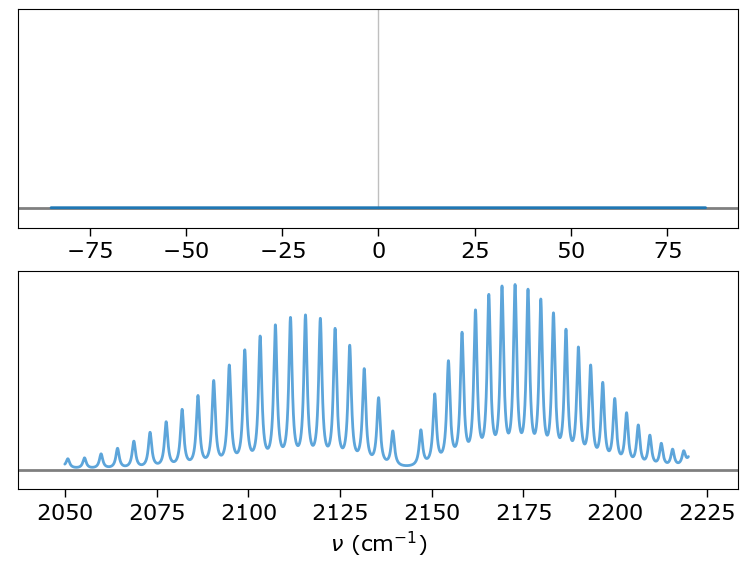
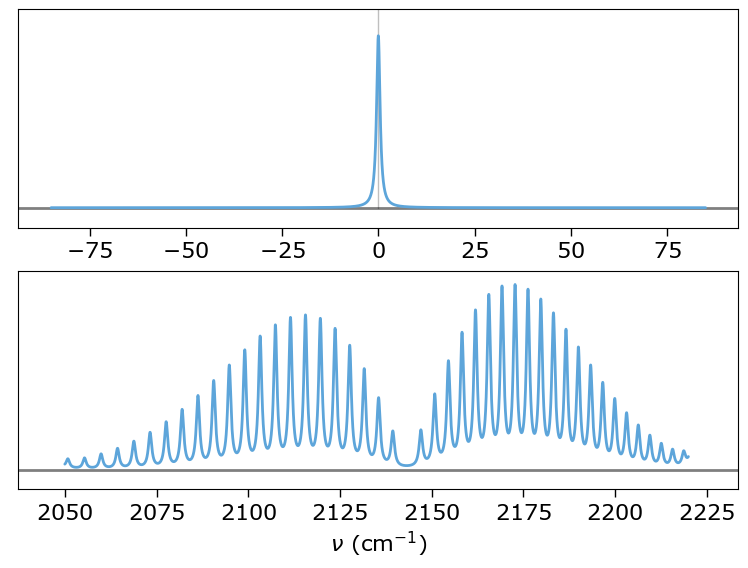
added weight_pos

Changed region(s): [[0.0615, 0.0599, 0.9532, 0.3891]]

diff --git a/ISMS/position_initerpolation.py b/ISMS/position_initerpolation.py
@@ -1,0 +1,122 @@
+import numpy as np
+import matplotlib.pyplot as plt
+from matplotlib import patches
+from numpy import log
+from matplotlib.widgets import Slider
+from PIL import Image
+
+size = 14
+vmin = 0.5
+k   = np.arange(5)
+kt = 2.2
+ki = int(kt)
+t = kt-ki
+a = t
+
+Si = np.zeros(len(k))
+Si[ki]   = (1-a)
+Si[ki+1] =    a
+ht  = 0.05
+hdv = 0.19
+
+
+
+p0  = plt.bar(k,Si,width=1.0,fc='cornsilk',ec='k')
+p1, = plt.plot([ki+t,ki+t],[0,1],'r-')
+p2, = plt.plot([ki+t,ki+t],[1.0,0.0],'ro')
+p3, = plt.plot([-1,ki+0.5],[  a,  a],'k--')
+p4, = plt.plot([-1,ki-0.5],[1-a,1-a],'k--')
+p5, = plt.plot([-1,ki+t],[1,1],'k--')
+p6, = plt.plot([vmin,vmin,vmin,ki,ki+1],[1.0,1-a,a,0,0],'ko')
+
+p7, = plt.plot([ki+1,ki+1],[  0,  hdv],'k--')
+p8, = plt.plot([ki,ki],[  0,  max(ht,hdv)],'k--')
+
+t1 = plt.text(ki+0.5,hdv+0.02,'$\\Delta \\nu$',fontsize = size,ha='center',backgroundcolor='cornsilk')
+a1 = plt.annotate(text='', xy=(ki,hdv), xytext=(ki+1,hdv), arrowprops=dict(arrowstyle='<->'))
+
+t2 = plt.text(ki+0.5*t,ht+0.02,'$t\\Delta \\nu$',fontsize = size,ha='center',backgroundcolor='cornsilk')
+a2 = plt.annotate(text='', xy=(ki,ht), xytext=(ki+t,ht), arrowprops=dict(arrowstyle='<->'))
+
+
+plt.yticks( [0,(1-a),a,1.0],['$0$','$(1-t)$','$t$','$1$'],fontsize = size)
+
+plt.xticks( [0,1,ki,ki+t,ki+1,4],
+            ['','','$\\nu[k]$','\n$\\nu_0$','$\\nu[k+1]$',''],
+            fontsize = size,
+            ha='left')
+ax=  plt.gca()
+plt.xlim(vmin,4.5)
+##plt.subplots_adjust(left=0.15,right=0.9,top=0.9,bottom=0.3)
+##
+##axslider = plt.axes([0.15, 0.1, 0.70, 0.03], facecolor='cornsilk')
+##t_slider = Slider(
+##    ax=axslider,
+##    label='$\\nu_0$',
+##    valmin=1.01,
+##    valmax=3.99,
+##    valinit=0.5,
+##)
+plt.sca(ax)
+
+def update(val):
+    global a1,a2
+##    kt = t_slider.val
+    kt = val
+    ki = int(kt)
+    t = kt-ki
+    a = t
+
+    for kk in k:
+        p0[kk].set_height(0)
+        
+    p0[ki].set_height(1-a)
+    p0[ki+1].set_height(a)
+    p1.set_xdata([ki+t,ki+t])
+    p2.set_xdata([ki+t,ki+t])
+    p3.set_xdata([-1,ki+0.5])
+    p3.set_ydata([a,a])
+    p4.set_xdata([-1,ki-0.5])
+    p4.set_ydata([1-a,1-a])
+    p5.set_xdata([0,ki+t])
+    p6.set_xdata([vmin,vmin,vmin,ki,ki+1])
+    p6.set_ydata([1.0,1-a,a,0,0])
+    p7.set_xdata([ki+1,ki+1])
+    p8.set_xdata([ki,ki])
+    t1.set_x(ki+0.5)
+    t2.set_x(ki+0.5*t)
+
+    a1.remove()
+    a1 = plt.annotate(text='', xy=(ki,hdv), xytext=(ki+1,hdv), arrowprops=dict(arrowstyle='<->'))
+    a2.remove()
+    a2 = plt.annotate(text='', xy=(ki,ht), xytext=(ki+t,ht), arrowprops=dict(arrowstyle='<->'))
+
+    i_list = [i for i in range(5)]
+    x_list =  i_list[:ki+1]+[ki+t]+i_list[ki+1:]
+    s_list = ki*['']+['$\\nu[k]$','\n$\\nu_0$','$\\nu[k+1]$']+(3-ki)*['']
+
+    plt.xticks(x_list,s_list,
+            fontsize = size,
+            ha='left')
+    plt.yticks( [0,(1-a),a,1.0],['$0$','$(1-t)$','$t$','$1$'],fontsize = size)
+
+    plt.xlim(vmin,4.5)
+    plt.gcf().canvas.draw_idle()
+    
+##t_slider.on_changed(update)
+
+gif_images = []
+for kt in np.linspace(1.01,3.99,200):
+    print(kt)
+    update(kt)
+    fname = 'output/pos_weight_{:.3f}.png'.format(kt)
+    plt.savefig(fname,dpi=100.0)
+    pImage=Image.open(fname)
+    gif_images.append(pImage.convert('RGB').convert('P', palette=Image.ADAPTIVE))
+
+gif_images += gif_images[::-1]
+gif_images[0].save('pos_weight.gif',
+                    save_all=True,
+                    duration = 100,
+                    loop = 0,
+                    append_images=gif_images[1:])

diff --git a/ISMS/convolve_spectrum.py b/ISMS/convolve_spectrum.py
@@ -38,8 +38,8 @@ for S0, v0 in zip(S0i, v0i):
     I = S0 * voigt_lineshape(v_arr - v0, wL/2, wV/2, jit=False)
     I_arr += I
 
-p1.remove()
-ax[0].plot(v_arr_ls,np.zeros(v_arr.size),c='tab:blue')
+##p1.remove()
+##ax[0].plot(v_arr_ls,np.zeros(v_arr.size),c='tab:blue')
 ax[1].plot(v_arr,I_arr)
 lines.remove()
 plt.savefig('convolution_after.png',dpi=100)
